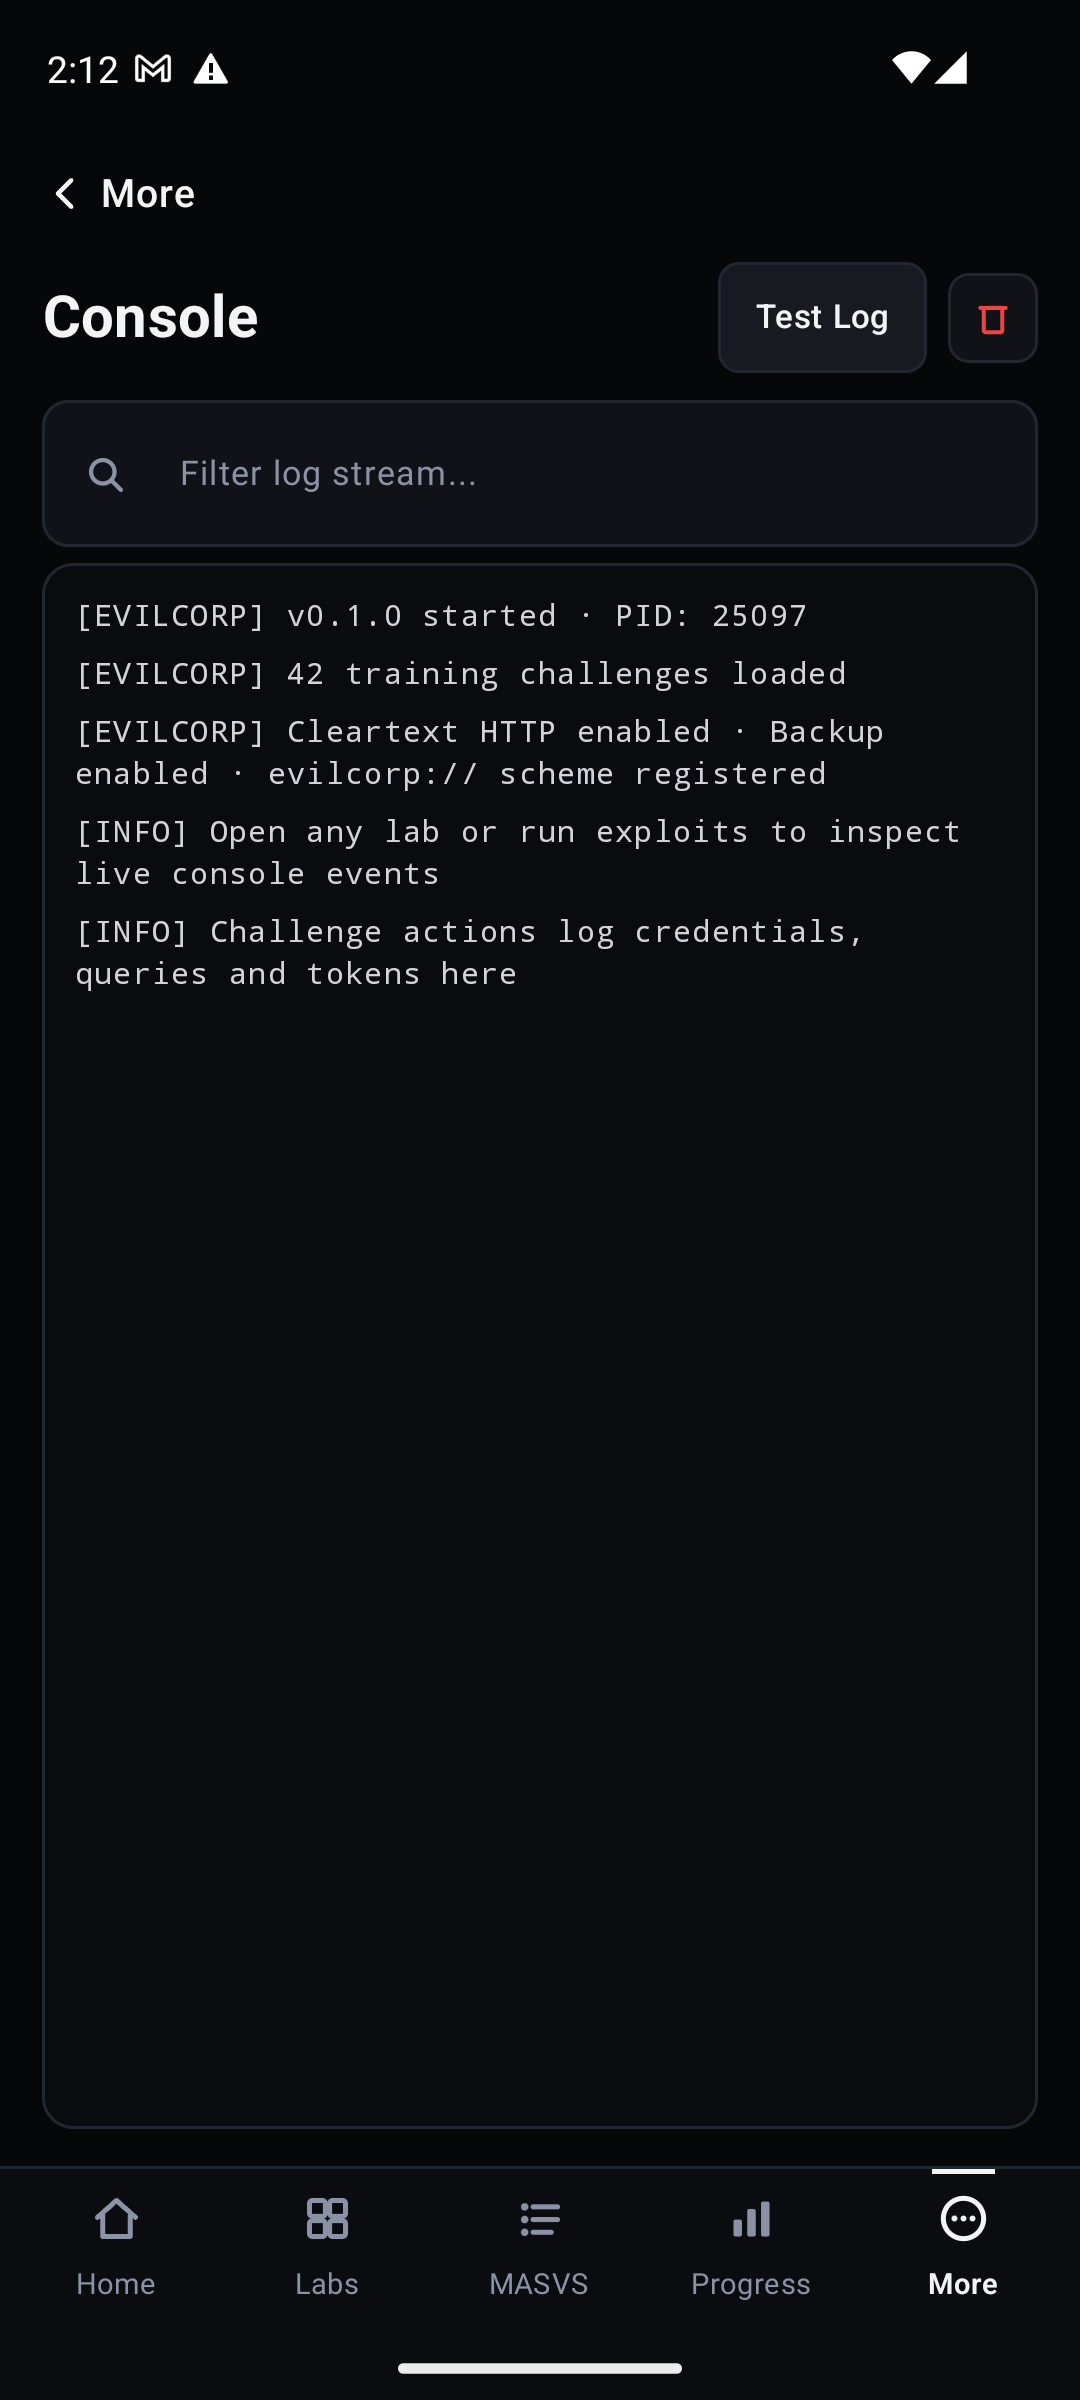
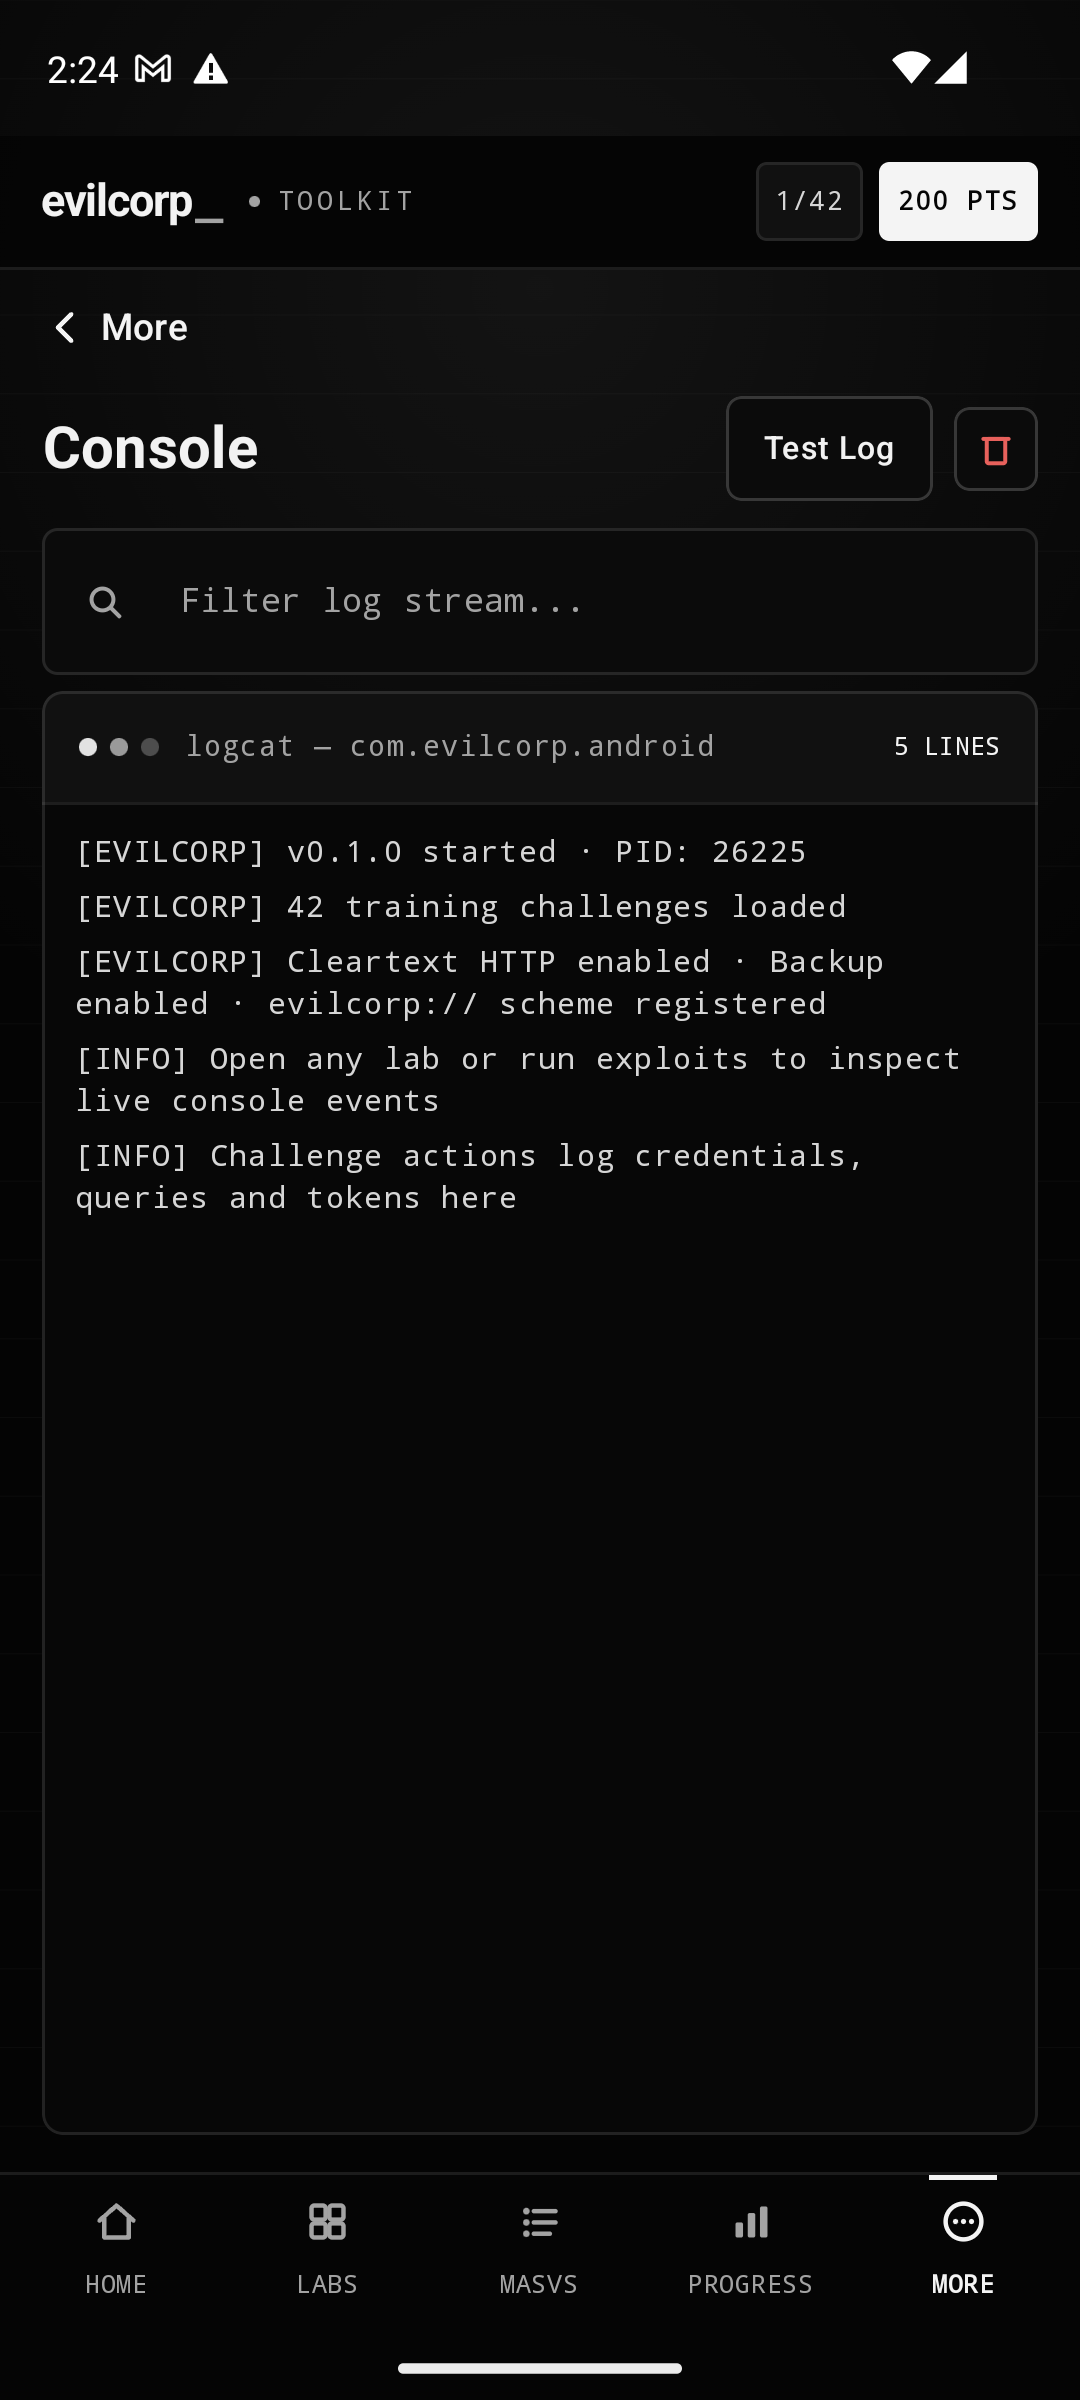
Update documentation, screenshots, and Makefile for 42-lab release

diff --git a/README.md b/README.md
@@ -28,7 +28,7 @@ The Android companion to [evilcorp-ios](https://github.com/jankesec/evilcorp-ios
   <img src="screenshots/Labs.png" alt="Searchable challenge catalog" width="19%" />
   <img src="screenshots/MASVS.png" alt="OWASP MASVS coverage view" width="19%" />
   <img src="screenshots/Progress.png" alt="Training progress dashboard" width="19%" />
-  <img src="screenshots/Console.png" alt="Local training console" width="19%" />
+  <img src="screenshots/More.png" alt="Operator toolkit" width="19%" />
 </div>
 
 ## What this project is
@@ -141,9 +141,9 @@ All network activity stays on the device loopback (`127.0.0.1:8080`, reachable v
 .
 ├── app/src/main/java/com/evilcorp/android/
 │   ├── model/        Challenge catalog (single source of truth) and scoring
-│   ├── labs/         One file per lab (30 labs) + flags + registry
-│   ├── data/         Local progress store
-│   └── ui/           Compose screens (Home, Labs, MASVS, Progress, detail)
+│   ├── labs/         42 self-contained security labs + flags + registry
+│   ├── data/         Local progress store and runtime security log
+│   └── ui/           Compose screens (Home, Labs, MASVS, Progress, More, Detail)
 ├── app/src/test/     Catalog, scoring and flag invariants
 ├── Makefile          build / test / install / run / release
 └── .github/workflows/ci.yml

diff --git a/CHANGELOG.md b/CHANGELOG.md
@@ -2,8 +2,8 @@
 
 ## 0.1.0 (unreleased)
 
-- Initial release: 30 labs across Storage, Crypto, Platform, Network, Auth and Resilience.
-- Central challenge catalog with CWE, OWASP MASVS v2 and MASWE mappings.
+- Initial release: 42 labs across all 8 OWASP MASVS v2 categories (Storage, Crypto, Auth, Network, Platform, Code, Resilience, and Privacy).
+- Central challenge catalog with CWE, OWASP MASVS v2, MASWE, and MASTG mappings.
 - Progressive hints, CTF flag submission and scoring, local progress tracking.
-- adb, Frida, jadx and objection snippets for each lab.
+- Built-in Operator Toolkit: Live Security Console, Device Intelligence, and searchable 42-script Frida/ADB/jadx library.
 - Loopback-only HTTP backend for the cleartext lab; no external network calls.
